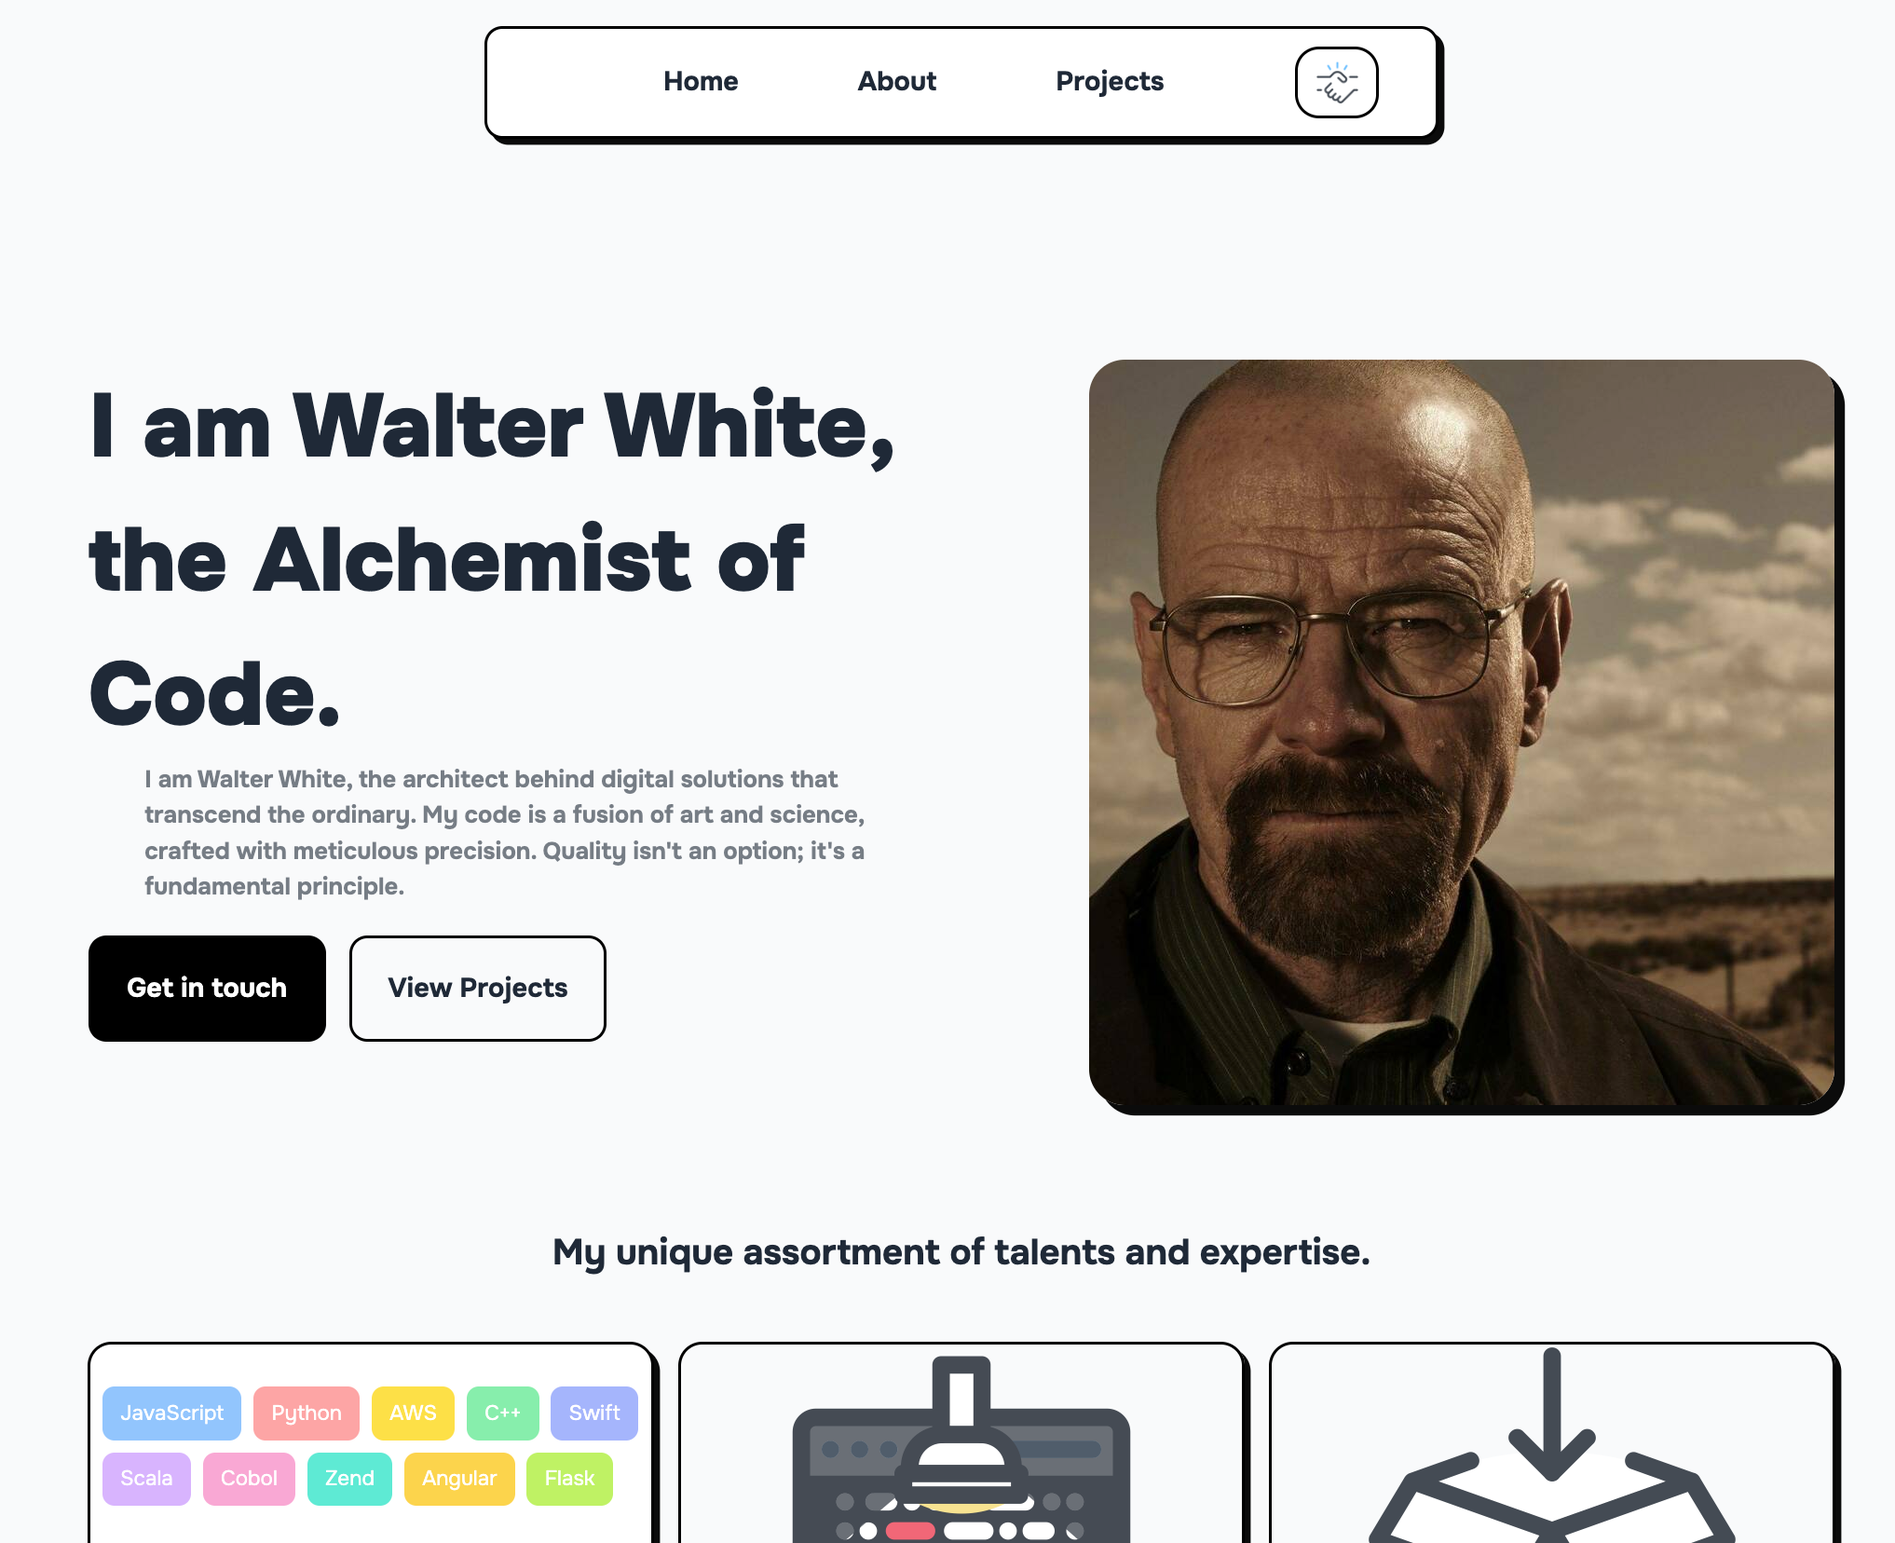
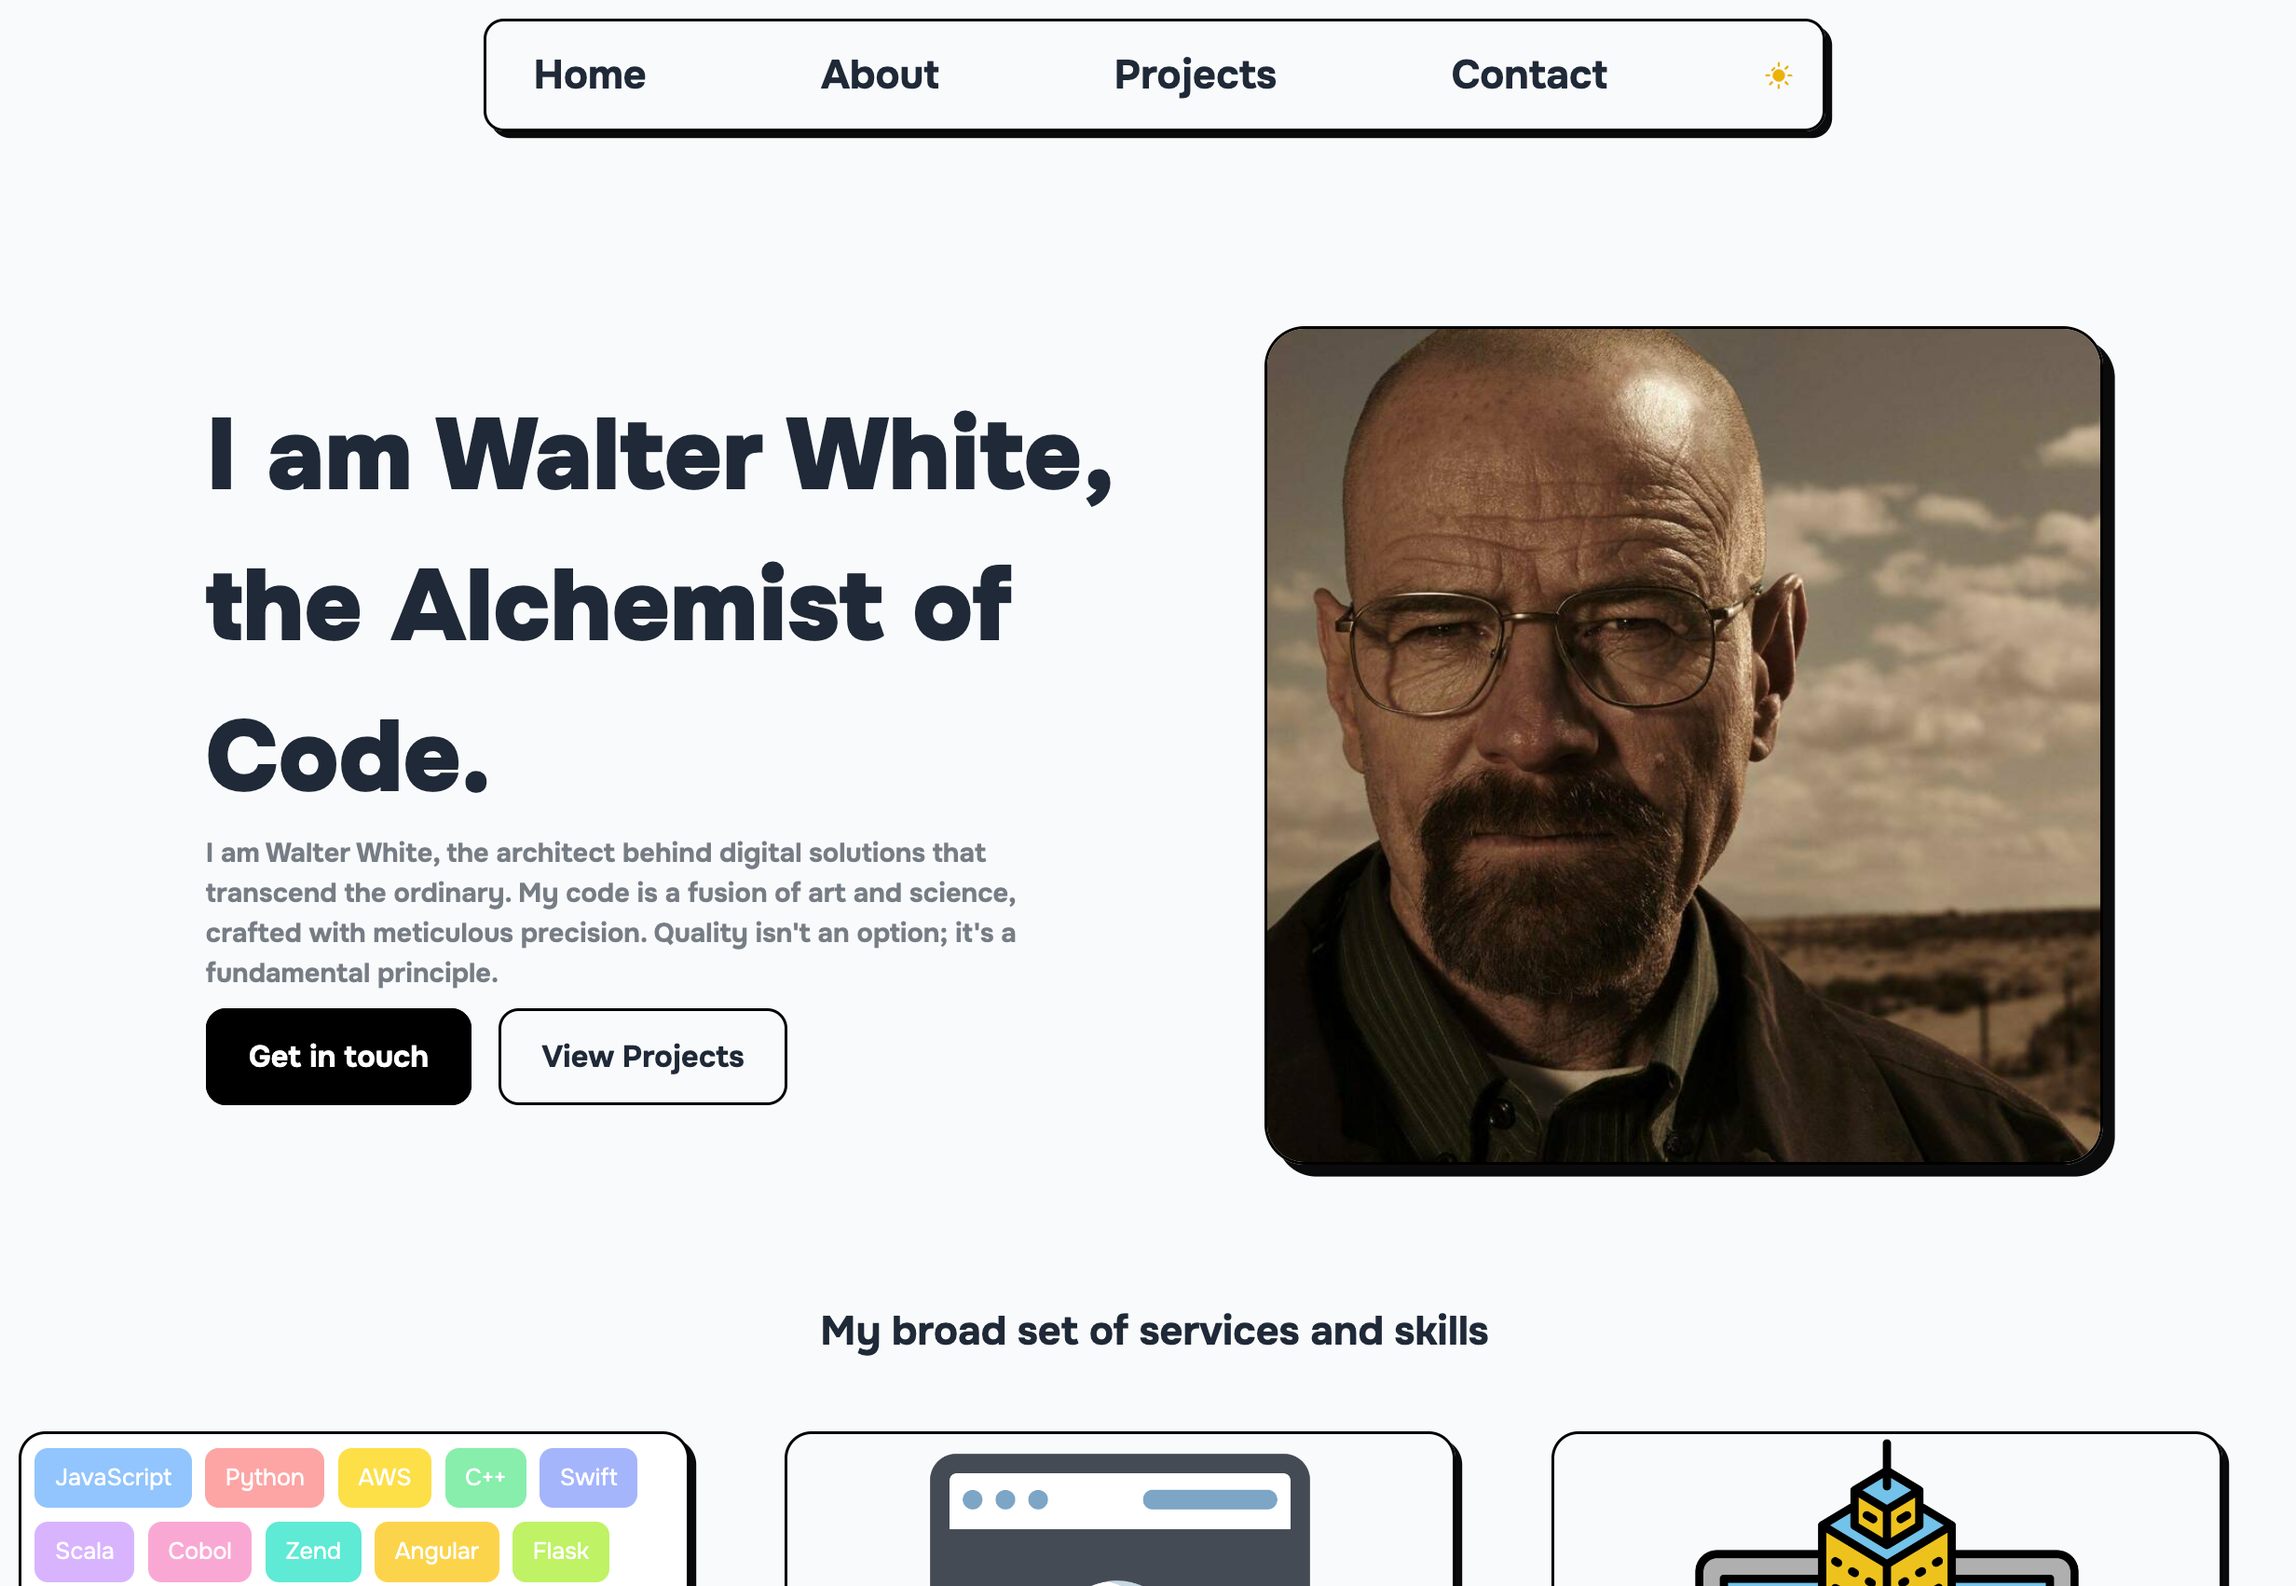
home page changes to accomodate dark theme

diff --git a/src/pages/Home/Home.tsx b/src/pages/Home/Home.tsx
@@ -1,11 +1,13 @@
-import { FC } from "react";
+import {FC, useEffect, useState} from "react";
 import { useSpring, animated } from "react-spring";
 import { FiCode, FiLayout } from "react-icons/fi";
 import profileDisplayImg from "assets/profiledisplay.png";
+import profileDisplayImgDark from "assets/profiledisplay-dark.png";
 
 import Footer from "Components/Footer/Footer";
 import Card from "Components/Card/Card";
 import Banner from "Components/Banner/Banner";
+import {DARK_THEME_KEY, LOCALSTORAGE_THEME_KEY} from "../../util/constants.ts";
 
 const Home: FC = () => {
   const headerAnimation = useSpring({
@@ -25,6 +27,20 @@ const Home: FC = () => {
     to: { opacity: 1, transform: "translate3d(0, 0, 0)" },
     delay: 300,
   });
+
+  const [currentTheme, setCurrentTheme] = useState(localStorage.getItem(LOCALSTORAGE_THEME_KEY));
+
+  useEffect(() => {
+    const themeChangeListener = () => {
+      setCurrentTheme(localStorage.getItem('theme'));
+    };
+
+    window.addEventListener('themeChanged', themeChangeListener);
+
+    return () => {
+      window.removeEventListener('themeChanged', themeChangeListener);
+    };
+  }, []);
 
   return (
     <>
@@ -50,7 +66,7 @@ const Home: FC = () => {
                   href="https://walter.codefoli.com"
                   target="_blank"
                   rel="noopener noreferrer"
-                  className="fixed left-1 top-1 z-50 cursor-pointer rounded-full border-2 border-black bg-white p-3 text-xs text-blue-700 shadow-custom transition-all hover:-translate-y-0.5 hover:text-blue-400 hover:shadow-customHover md:left-10 md:top-10 md:text-sm"
+                  className="fixed left-1 top-1 z-50 cursor-pointer rounded-full border-2 border-black bg-white dark:bg-[#1a1a1a] p-3 text-xs text-blue-700 shadow-custom transition-all hover:-translate-y-0.5 hover:text-blue-400 hover:shadow-customHover md:left-10 md:top-10 md:text-sm"
                 >
                   walter.codefoli.com
                 </a>
@@ -61,7 +77,7 @@ const Home: FC = () => {
                 >
                   <img
                     className="mb-5 h-auto w-full transform cursor-pointer rounded-lg border-2 border-black shadow-custom transition-all hover:-translate-y-0.5 hover:shadow-customHover md:max-w-screen-lg"
-                    src={profileDisplayImg}
+                    src={currentTheme === DARK_THEME_KEY ? profileDisplayImgDark : profileDisplayImg}
                     alt="Introductory visual"
                   />
                 </a>
@@ -78,17 +94,17 @@ const Home: FC = () => {
               <Card
                 title="Professional Design"
                 description="Create a professional and personalized portfolio website"
-                ImageUrl="/assets/images/professional-website.png"
+                ImageUrl={currentTheme === DARK_THEME_KEY ? "/assets/images/professional-website-dark.png" : "/assets/images/professional-website.png"}
               />
               <Card
                 title="Add Your Skills"
                 description="Showcase your projects, skills, and accomplishments"
-                ImageUrl="/assets/images/skills.png"
+                ImageUrl={currentTheme === DARK_THEME_KEY ? "/assets/images/skills-dark.png" : "/assets/images/skills.png"}
               />
               <Card
                 title="Easy To Edit"
                 description="Easily update and maintain your portfolio over time"
-                ImageUrl="/assets/images/easy-to-edit.png"
+                ImageUrl={currentTheme === DARK_THEME_KEY ? "/assets/images/easy-to-edit-dark.png" : "/assets/images/easy-to-edit.png"}
               />
             </div>
           </div>

diff --git a/src/common/Components/Card/Card.tsx b/src/common/Components/Card/Card.tsx
@@ -12,7 +12,7 @@ const Card = ({ ImageUrl, title, description }: Props) => {
       {ImageUrl &&
         (typeof ImageUrl === "string" ? (
           <img
-            className={`h-64 w-96 border-8 border-gray-50 object-cover transition-all`}
+            className={`h-64 w-96 border-8 border-gray-50 dark:border-[#0d0d0d] object-cover transition-all`}
             src={ImageUrl}
             alt=""
           />
